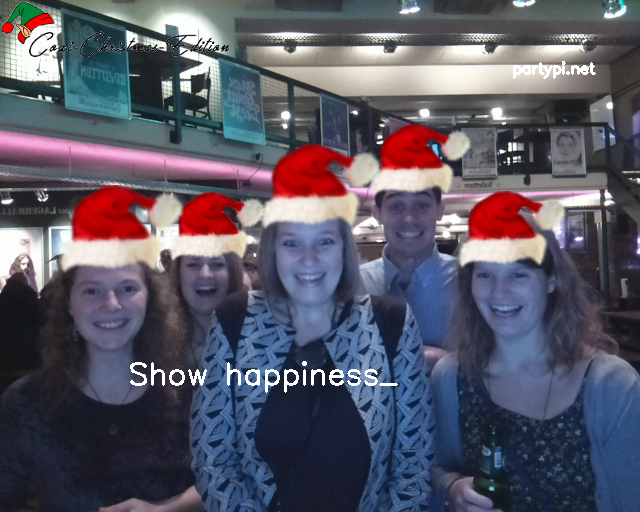
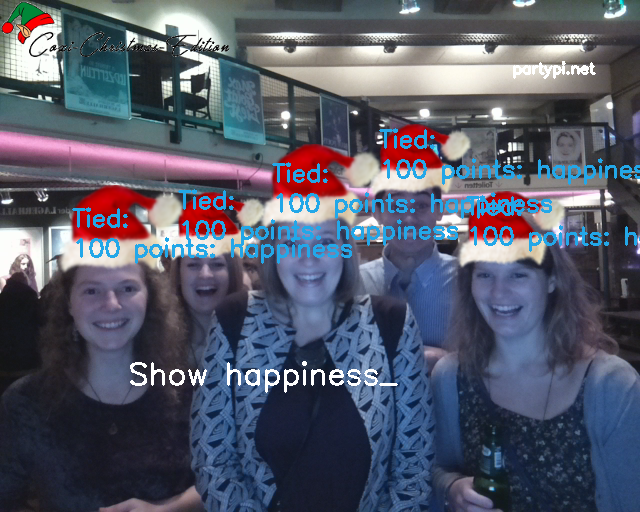
Clean up code, update demo image

Changed region(s): [[0.0938, 0.25, 1.0, 0.5312], [0.9688, 0.4375, 1.0, 0.5]]

diff --git a/uploader.py b/uploader.py
@@ -43,28 +43,6 @@ class Uploader(object):
 
         # TODO: Complete Imgur user settings.
         # user = self.config.user
-        self.initPyimgur()
-
-    def initPyimgur(self):
-        """
-        Initialize variables and parameters for PyImgur.
-        """
-        self.album = "iX0uj"  # Testing.
-        # self.album = "zzf6O"
-        # self.album = "6U86u"
-        # self.album = "JugqY"
-        _url = 'https://api.projectoxford.ai/emotion/v1.0/recognize'
-        _key = self.config.key
-        _maxNumRetries = 10
-        CLIENT_ID = self.config.CLIENT_ID
-        CLIENT_SECRET = self.config.CLIENT_SECRET
-
-        self.im = pyimgur.Imgur(CLIENT_ID, CLIENT_SECRET)
-        self.im.change_authentication(
-            refresh_token=self.config.refresh_token)
-        self.im.refresh_access_token()
-        # user = self.im.get_user('spacemaker')
-        # album = im.get_album(ALBUM_ID)
 
     def upload_img(self, imagepath):
         """
@@ -85,6 +63,5 @@ class Uploader(object):
 
         # Send emotion data to API and return to game.
         data = self.emotion_API.get_emotions(uploaded_image.link)
-        data = emotion_api(uploaded_image.link)
 
         return data

diff --git a/main.py b/main.py
@@ -438,6 +438,7 @@ class PartyPi(object):
             self.photo[self.screenheight - self.easySize[0]:self.screenheight, self.screenwidth - self.easySize[0]:self.screenwidth] = self.frame[
                 self.screenheight - self.easySize[1]: self.screenheight, self.screenwidth - self.easySize[1]: self.screenwidth]
 
+        # TODO: Move to separate function.
         # Face-based replay and mode selection (disabled).
         # self.overlay = self.photo.copy()
         # Show 'Play Again'. Disabled for party.
@@ -631,7 +632,7 @@ class PartyPi(object):
             self.draw_christmas_logo(self.photo)
             self.draw_hat(self.photo, faces)
             cv2.imwrite(imagePath, self.photo)
-        self.result = self.uploader.upload_img(imagePath)
+            self.result = self.uploader.upload_img(imagePath)
         self.display()
 
     def display(self):

diff --git a/README.md b/README.md
@@ -54,7 +54,7 @@ Select Easy or Hard Mode (left or right arrow keys)
 ## TODO
  - [ ] Fix alignment of analyzing text
  - [ ] Redesign mode selection boxes
- - [ ] Add PyQT
+ - [ ] Add PyQT for font and sizing support
 
 ## Author
 
